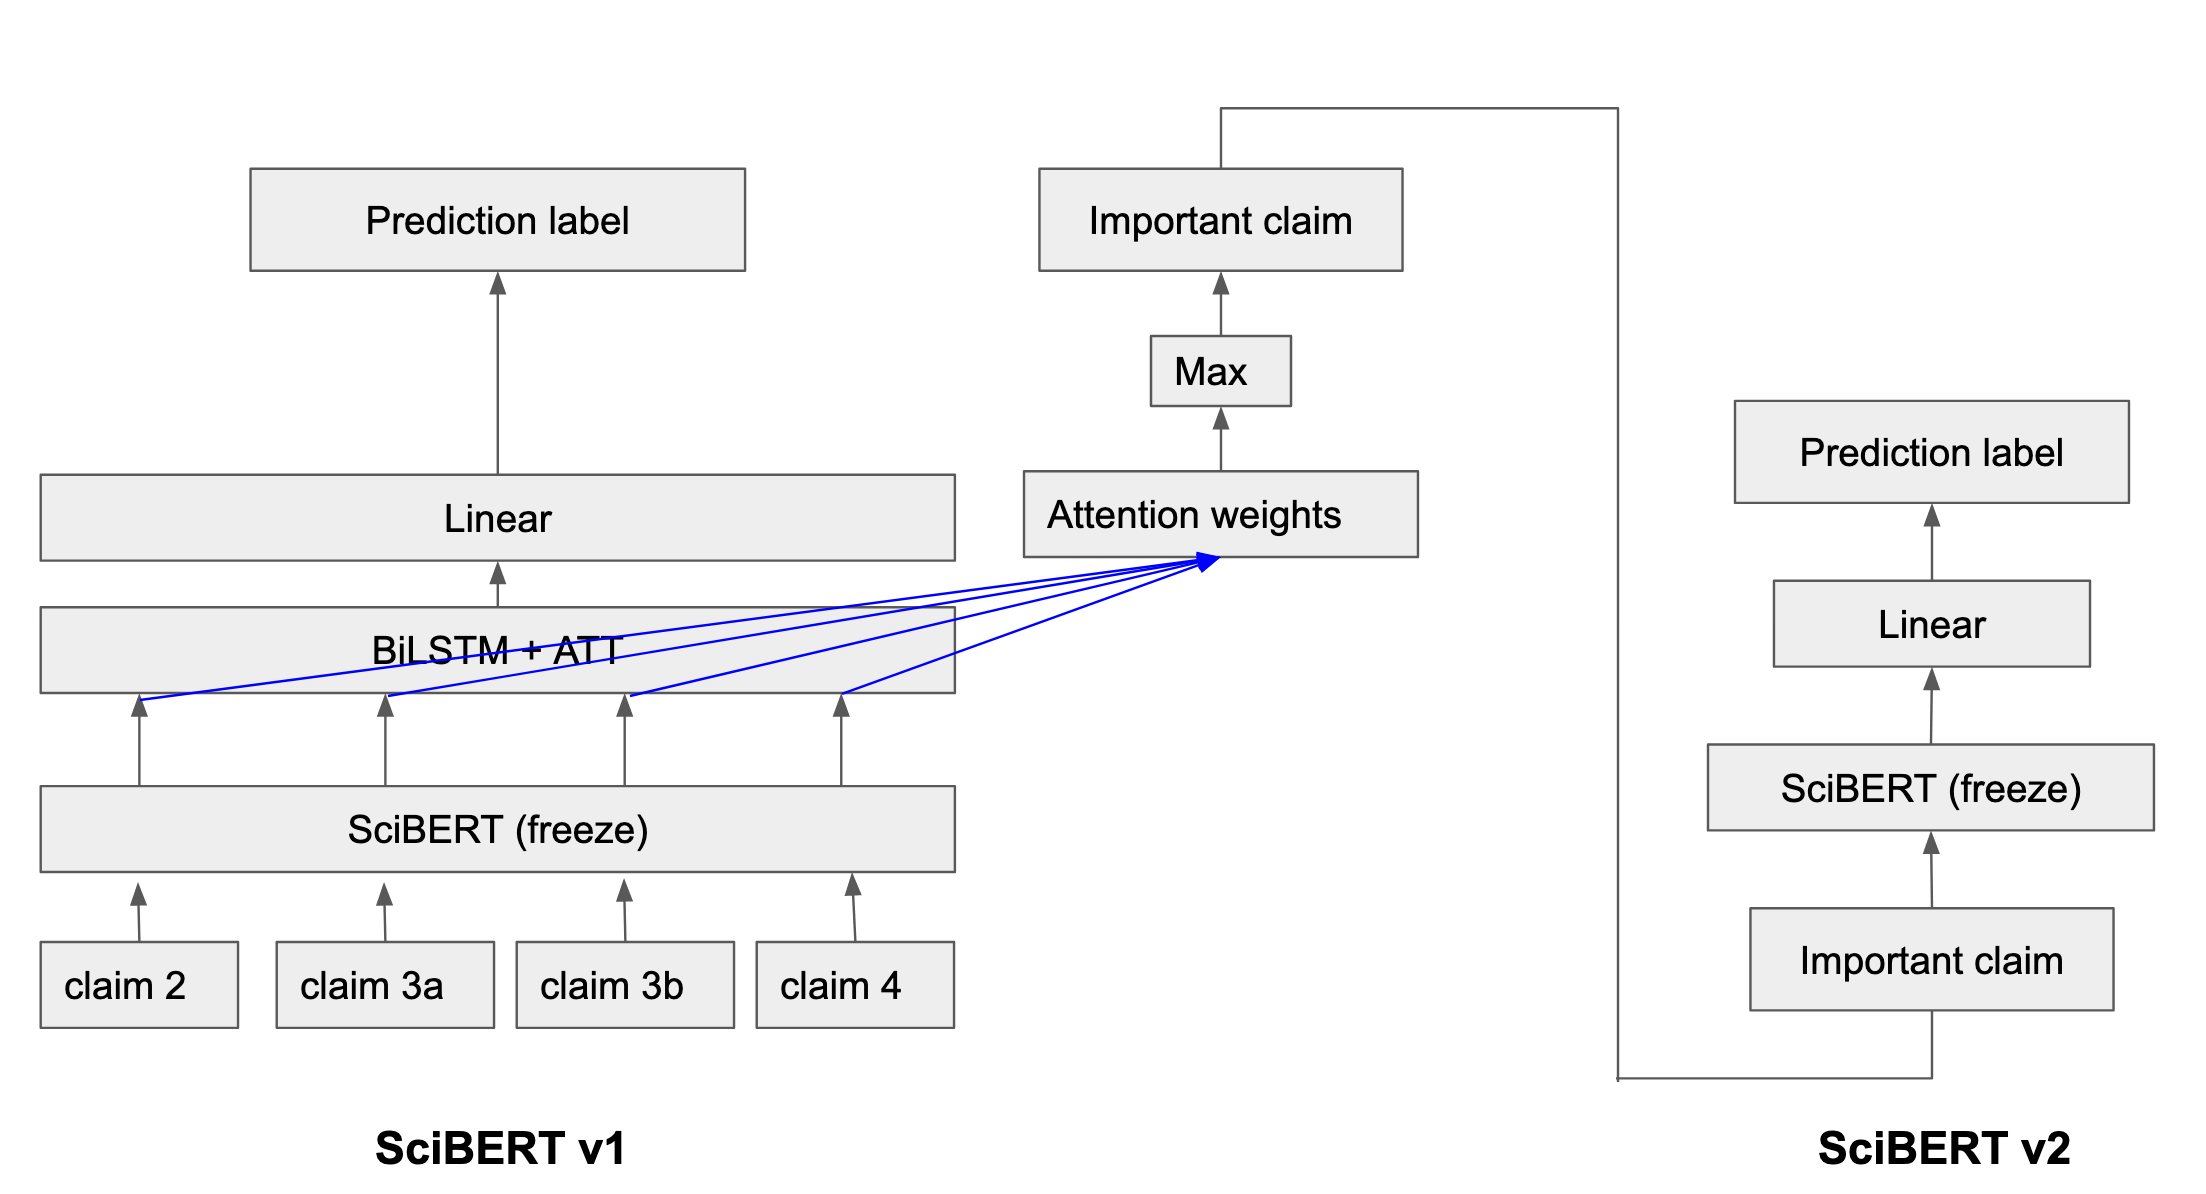
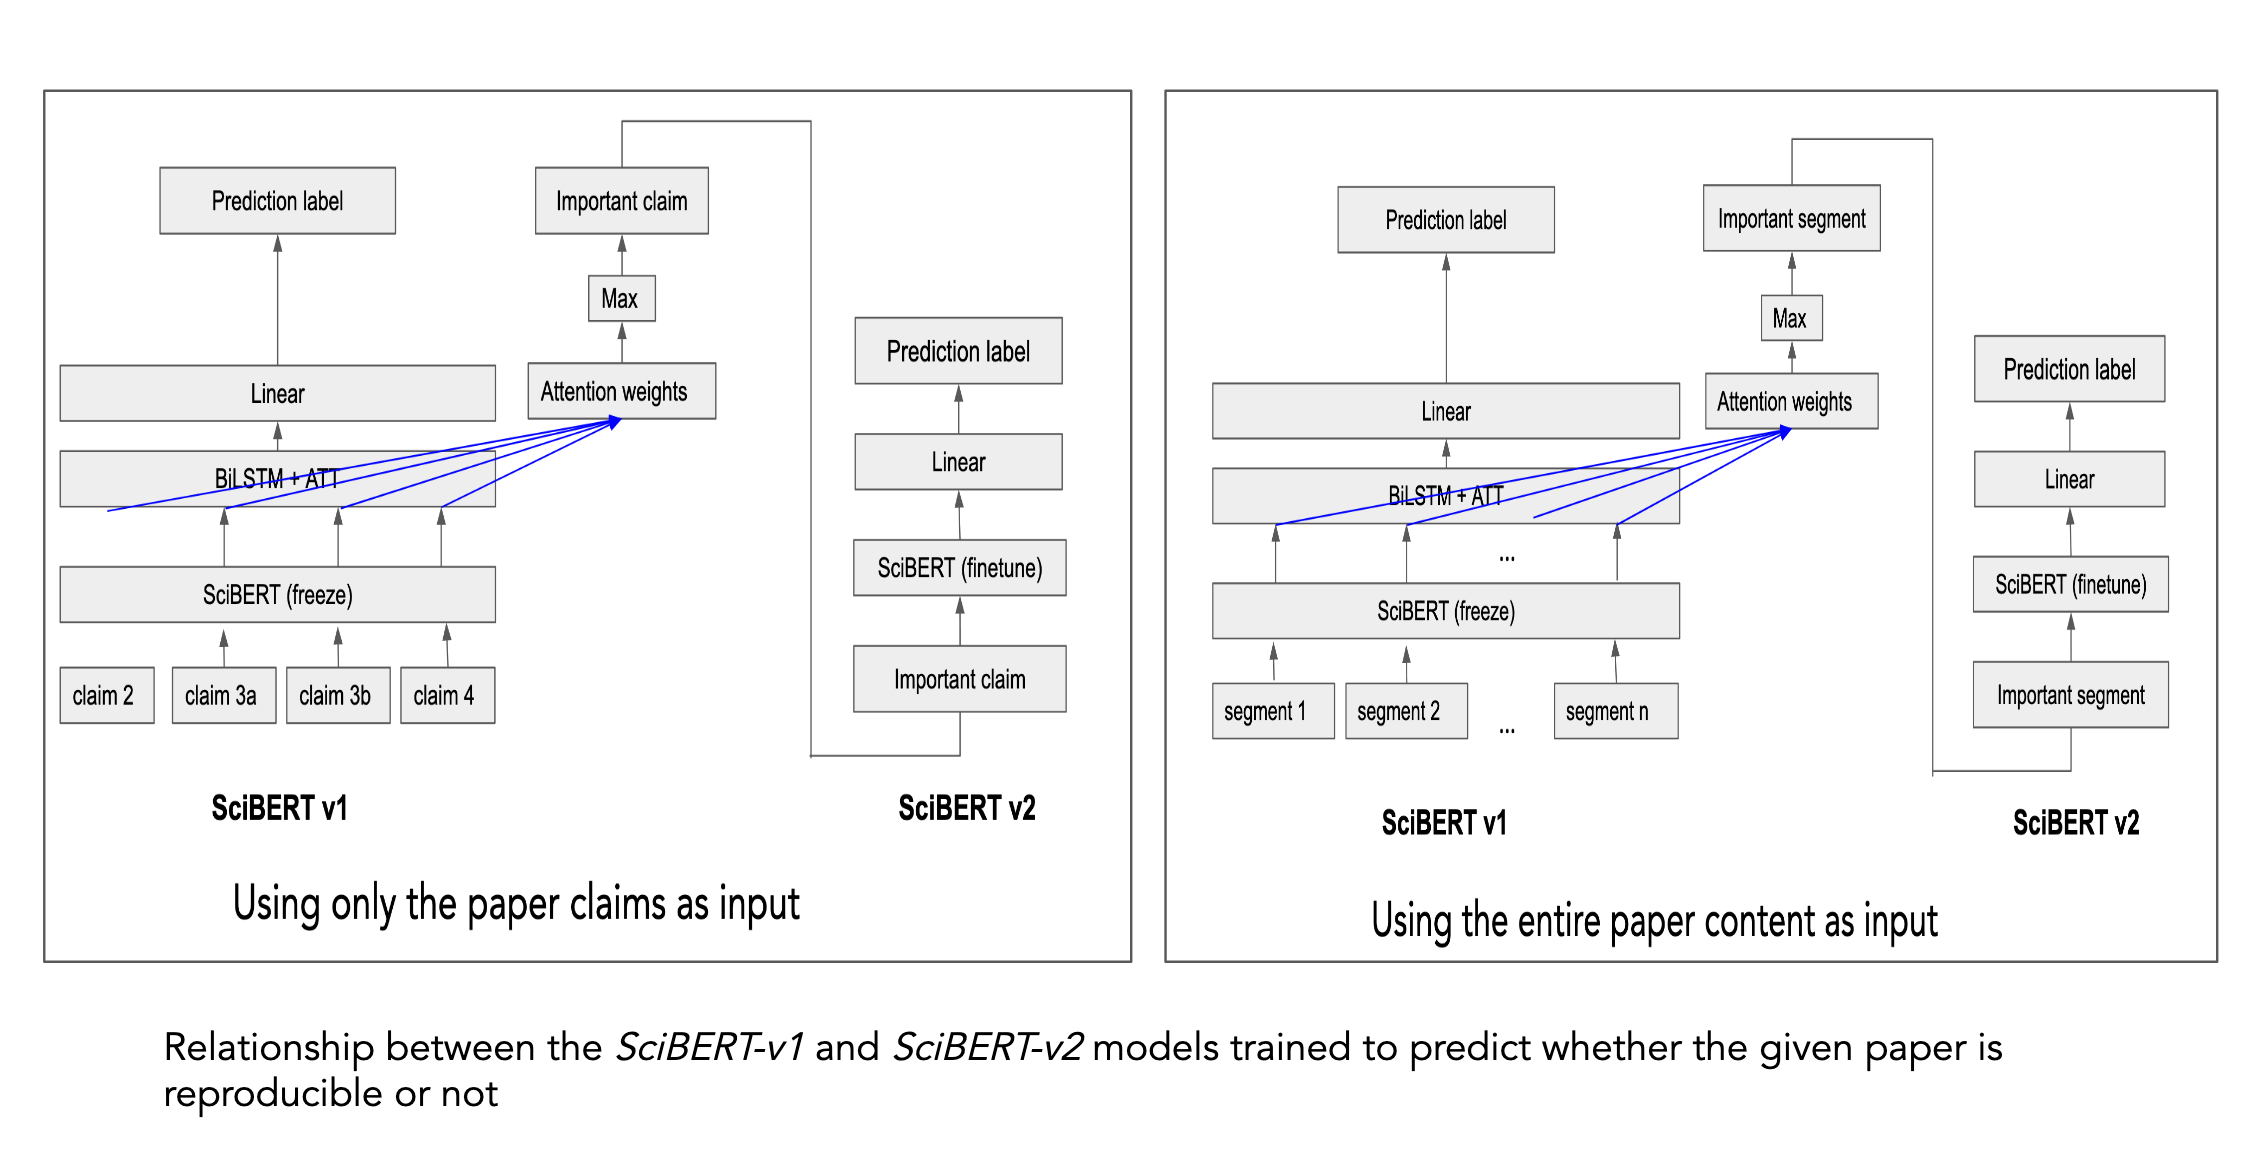
Update blog

diff --git a/_posts/2020-11-30-final-project-report.md b/_posts/2020-11-30-final-project-report.md
@@ -17,7 +17,10 @@ requires huge amounts of labeled data to achieve impressive performance. However
 in low-resource domains are expensive and highly time consuming. 
 
 Thus, we need a way to provide additional supervision to deep learning models for solving NLP tasks like text classification
-and sequence tagging when the amount of labeled data is limited and are very expensive to annotate.
+and sequence tagging when the amount of labeled data is limited and are very expensive to annotate. The high-level overview of
+our approach is illustrated in the below figure, 
+
+![_config.yml]({{ site.baseurl }}/images/trigger_phrase_overview.png)
 
 # Problem Formulation
 
@@ -37,13 +40,17 @@ to whether that particular paper is reproducible or not. For the sequence taggin
 papers which are tagged with various entity types such as p-values, effect sizes, model names, study names etc using a 
 BIO encoding scheme.
 
-For the text classification task, \newline
-Input: Text classification dataset $D$ with a number of categories $C$. \newline
-Output: Trigger dictionary $d$ consisting of list of phrases $p$ corresponding to each the categories $C$. 
+For the text classification task, 
 
-For the sequence tagging task, \newline
-Input: Sequence tagging dataset $D$ with a number of entity types $E$. \newline
-Output: Trigger dictionary $d$ consisting of list of phrases $p$ corresponding to each the entity types $E$. 
+Input: Text classification dataset **D** with a number of categories **C**. 
+
+Output: Trigger dictionary **d** consisting of list of phrases **p** corresponding to each the categories **C**. 
+
+For the sequence tagging task, 
+
+Input: Sequence tagging dataset **D** with a number of entity types **E**. 
+
+Output: Trigger dictionary **d** consisting of list of phrases **p** corresponding to each the entity types **E**. 
 
 # Approach
 
@@ -53,38 +60,40 @@ of text classification task (or) extract the trigger phrases corresponding to ea
 
 We consider the text classification task of predicting whether a given scientific paper is reproducible or not.  We have
 a labeled dataset of around 886 papers. Each paper is parsed using the AllenAI's Science Parse tool 
-\footnote{\url{https://github.com/allenai/science-parse}} and converted from a pdf to a structured format which has a list 
+[https://github.com/allenai/science-parse](https://github.com/allenai/science-parse) and converted from a pdf to a structured format which has a list 
 of paper sections and its corresponding text. The labeled dataset also includes a list of 4 important claims that are extracted 
 from the paper by Human experts. We aim to extract the global patterns of trigger phrases corresponding to each of the 
 label categories (i.e., reproducible vs non-reproducible papers). 
 
 For extracting the trigger phrases in the scientific paper, we first identify the most important claim among the given 
 4 claims of the paper. For identifying the most important claim among the given 4 claims of the paper, we train a SciBERT
-[4] based text classification model (we refer to this model as \emph{SciBERT-v1}) that takes the given 4 claims as inputs
+[4] based text classification model (we refer to this model as *SciBERT-v1*) that takes the given 4 claims as inputs
 and predicts whether the paper corresponding to the given 4 claims is reproducible or not. The SciBERT based text 
 classification model uses SciBERT as a feature extractor followed by a  BiLSTM + Attention layer and a final linear layer 
-with Softmax which predicts the probability corresponding to each of the label categories. Once the \emph{SciBERT-v1} model 
+with Softmax which predicts the probability corresponding to each of the label categories. Once the *SciBERT-v1* model 
 is trained, we can use the attention weight corresponding to the claims as a measure of importance and pick the claim with 
 the highest attention weight as the most important claim.
-
-![_config.yml]({{ site.baseurl }}/images/LM_models.png)
 
 Then, we identify the list of candidate phrases from this identified claim to compute the importance scores with respect 
 to each of the label categories. For extracting the list of candidate phrases, we perform constituency parsing on the 
 identified claim and extract the phrases corresponding to the nodes of the parsed tree. We estimate the importance score 
 for each of the candidate phrases using the Sampling and Occlusion (SOC) algorithm [2]. This workflow is illustrated in 
-Figure \ref{fig:soc_flow}. In SOC algorithm, to estimate the importance of the phrase $p$ in the given input text $S$ 
-with label class $c$, we first sample the context around the phrase $p$ in the input text using a language model trained 
-on the training corpus. Then, we mask the phrase $p$ from the input text and measure the difference in the prediction logit 
-score of the label class $c$ of the input text $S$ without and with masking the phrase $p$ with a mask token. We perform 
-this procedure of sampling and measuring the prediction logit score difference for a number of trials and take the average 
-difference in prediction logit score to be the importance score for that phrase $p$ in the input text $S$ with label 
-class $c$. For measuring the prediction logit score difference, we need to train another SciBERT model (we refer to this 
-model as \emph{SciBERT-v2}) with only the important claim as input and aim to predict whether the paper corresponding to 
-this important claim is reproducible or not. For sampling, we train a LSTM based language model on the SciBERT tokenized 
-text of the training corpus. The relationship between the two SciBERT classifier models are illustrated in the Figure \ref{fig:lm_models}
+the below figure, 
 
 ![_config.yml]({{ site.baseurl }}/images/soc_flow.png)
+
+In SOC algorithm, to estimate the importance of the phrase **p** in the given input text **S** 
+with label class **c**, we first sample the context around the phrase **p** in the input text using a language model trained 
+on the training corpus. Then, we mask the phrase **p** from the input text and measure the difference in the prediction logit 
+score of the label class **c** of the input text **S** without and with masking the phrase **p** with a mask token. We perform 
+this procedure of sampling and measuring the prediction logit score difference for a number of trials and take the average 
+difference in prediction logit score to be the importance score for that phrase **p** in the input text **S** with label 
+class **c**. For measuring the prediction logit score difference, we need to train another SciBERT model (we refer to this 
+model as *SciBERT-v2*) with only the important claim as input and aim to predict whether the paper corresponding to 
+this important claim is reproducible or not. For sampling, we train a LSTM based language model on the SciBERT tokenized 
+text of the training corpus. The relationship between the two SciBERT classifier models are illustrated in the below figure,
+
+![_config.yml]({{ site.baseurl }}/images/lm_models.png)
 
 Once we have the importance scores for all the candidate phrases for each of the label categories, we choose the top-3 
 phrases with highest importance scores to be the trigger phrases corresponding to that label category in the given sample. 
@@ -100,21 +109,26 @@ corresponding to each entity type.
 
 # Experiments
 
-We evaluated the classifiers \emph{SciBERT-v1} and \emph{SciBERT-v2} on the paper reproducibility classification dataset. 
+We evaluated the classifiers *SciBERT-v1* and *SciBERT-v2* on the paper reproducibility classification dataset. 
 As the total number of samples in this dataset is relatively small (i.e., 886 samples), we perform 5-fold cross validation 
-and report the mean of the performance metric to give a better estimate of the model's performance.The results can be 
-found in Table \ref{tab:lm_model_results}. Results show that the \emph{SciBERT-v2} model performs significantly better 
-than the \emph{SciBERT-v1} model even though its using only the important claim as input to the model.
+and report the mean of the performance metric to give a better estimate of the model's performance. The results can be 
+found in below table,
 
-|    Model   | Accuracy | Precision | Recall | F1-score |
-|:----------:|:--------:|:---------:|:------:|:--------:|
-| SciBERT-v1 |   66.59  |   0.644   |  0.611 |   0.612  |
-| SciBERT-v2 |   90.85  |   0.869   |  0.934 |   0.900  |
+![_config.yml]({{ site.baseurl }}/images/results_tc_claim_level.png)
+
+![_config.yml]({{ site.baseurl }}/images/results_tc_paper_level.png)
+
+Results show that the *SciBERT-v2* model performs significantly better 
+than the *SciBERT-v1* model even though its using only the important claim as input to the model.
 
 Then, we evaluate the extracted trigger phrases corresponding to each of the label categories (i.e., reproducible vs 
 non-reproducible) by manually examining them. We gave the list of extracted phrases corresponding to reproducible and 
 non-reproducible papers to the domain experts and asked them to evaluate if those phrases make sense intuitively. Some 
-of the extracted trigger phrases are shown in the Table \ref{tab:lm_phrases}.
+of the extracted trigger phrases are shown in the below table,
+
+![_config.yml]({{ site.baseurl }}/images/examples_tc_claim_level.png)
+
+![_config.yml]({{ site.baseurl }}/images/examples_tc_paper_level.png)
 
 We observed some interesting patterns in the trigger phrases extracted by our framework. The model is able to identify 
 the phrases which contain terms like statistical tests having high significance, p-values less than a specific range 
@@ -123,9 +137,12 @@ having a difference in test results, incompatibility in experiments and p-values
 
 To measure if the p-values play a important role in deciding the reproducibility of the papers, we further analysed the 
 distribution of p-values that are extracted from only the most important phrase identified by our framework for each paper 
-and found a clear separation in p-values between the reproducible vs non-reproducible papers as shown in the Figure 
-\ref{fig:pv_dist}. This observation indicates our phrase extraction framework could also provide additional capability 
-to explain the deep learning models prediction.
+and found a clear separation in p-values between the reproducible vs non-reproducible papers as shown in the below figure,
+
+![_config.yml]({{ site.baseurl }}/images/pv_dist.png)
+
+This observation indicates our phrase extraction framework could also provide additional capability 
+to explain the deep learning models prediction. 
 
 # References
 
